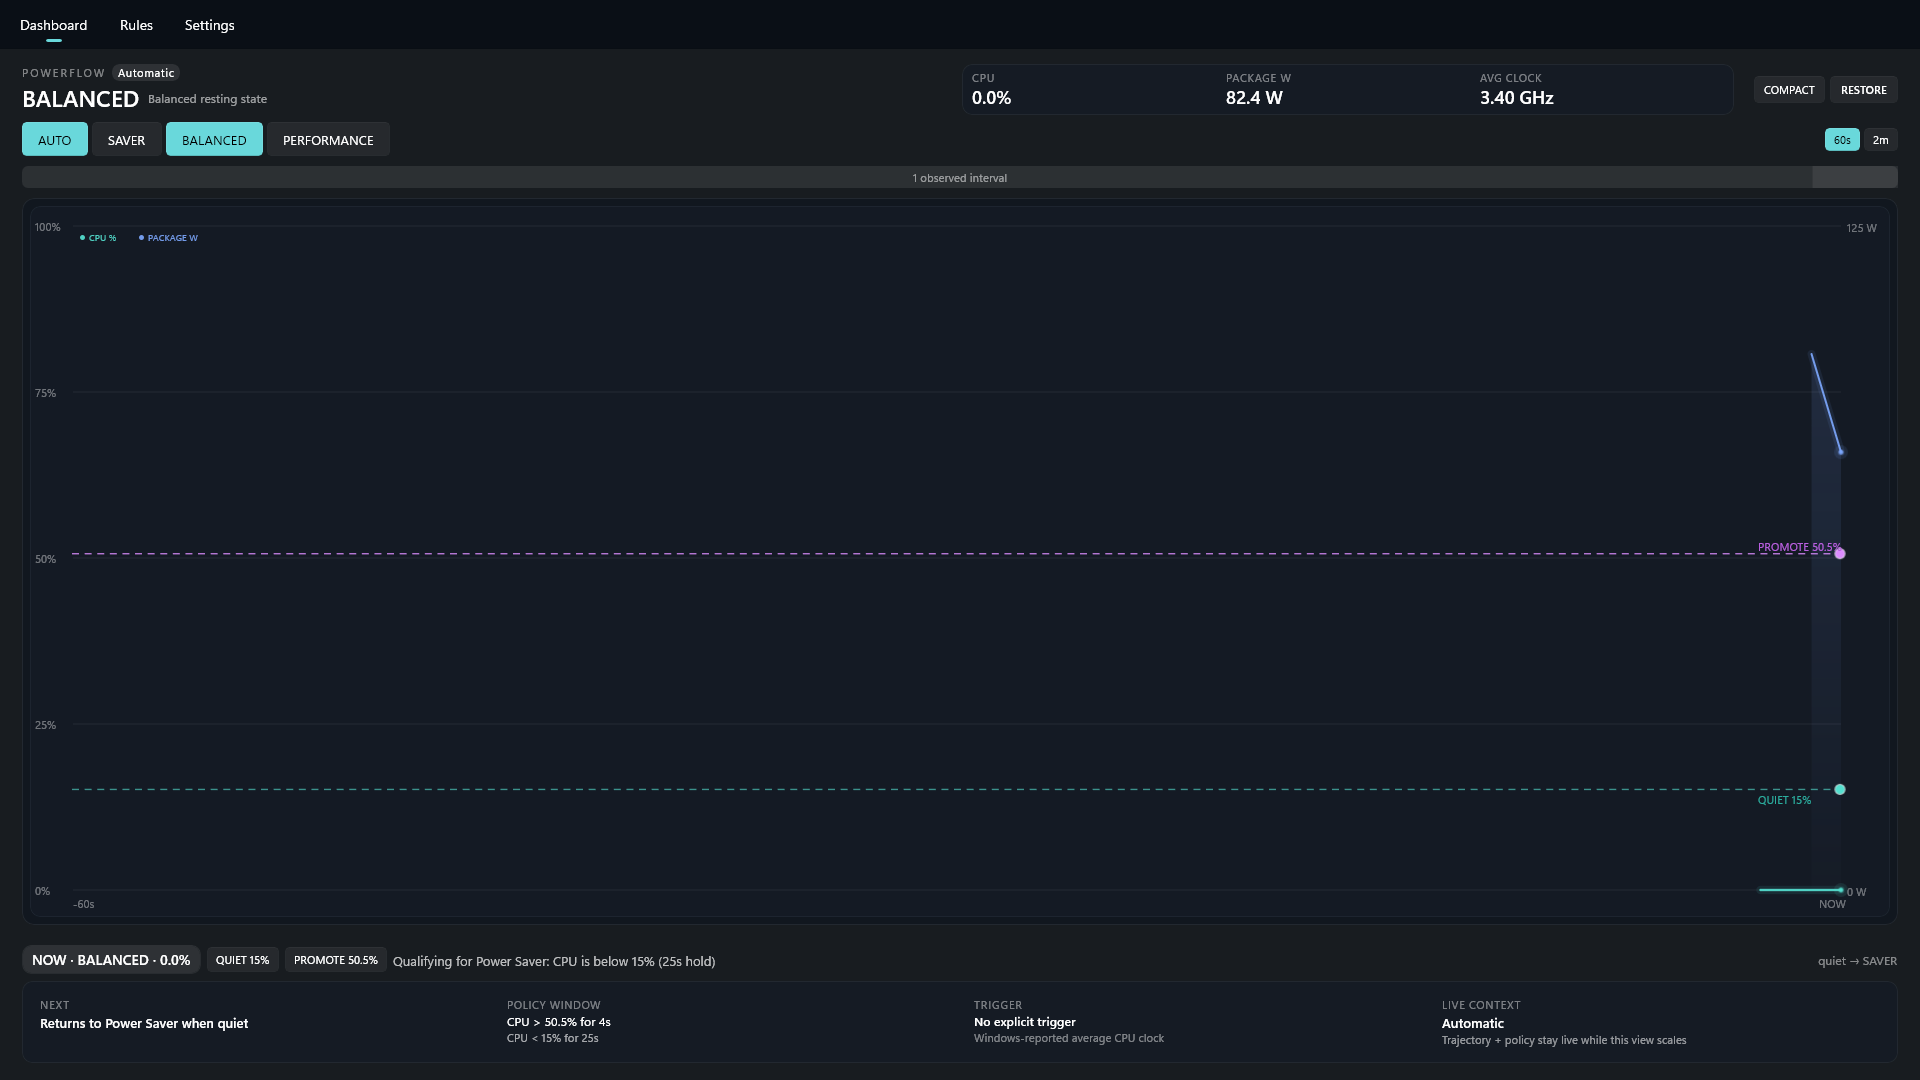
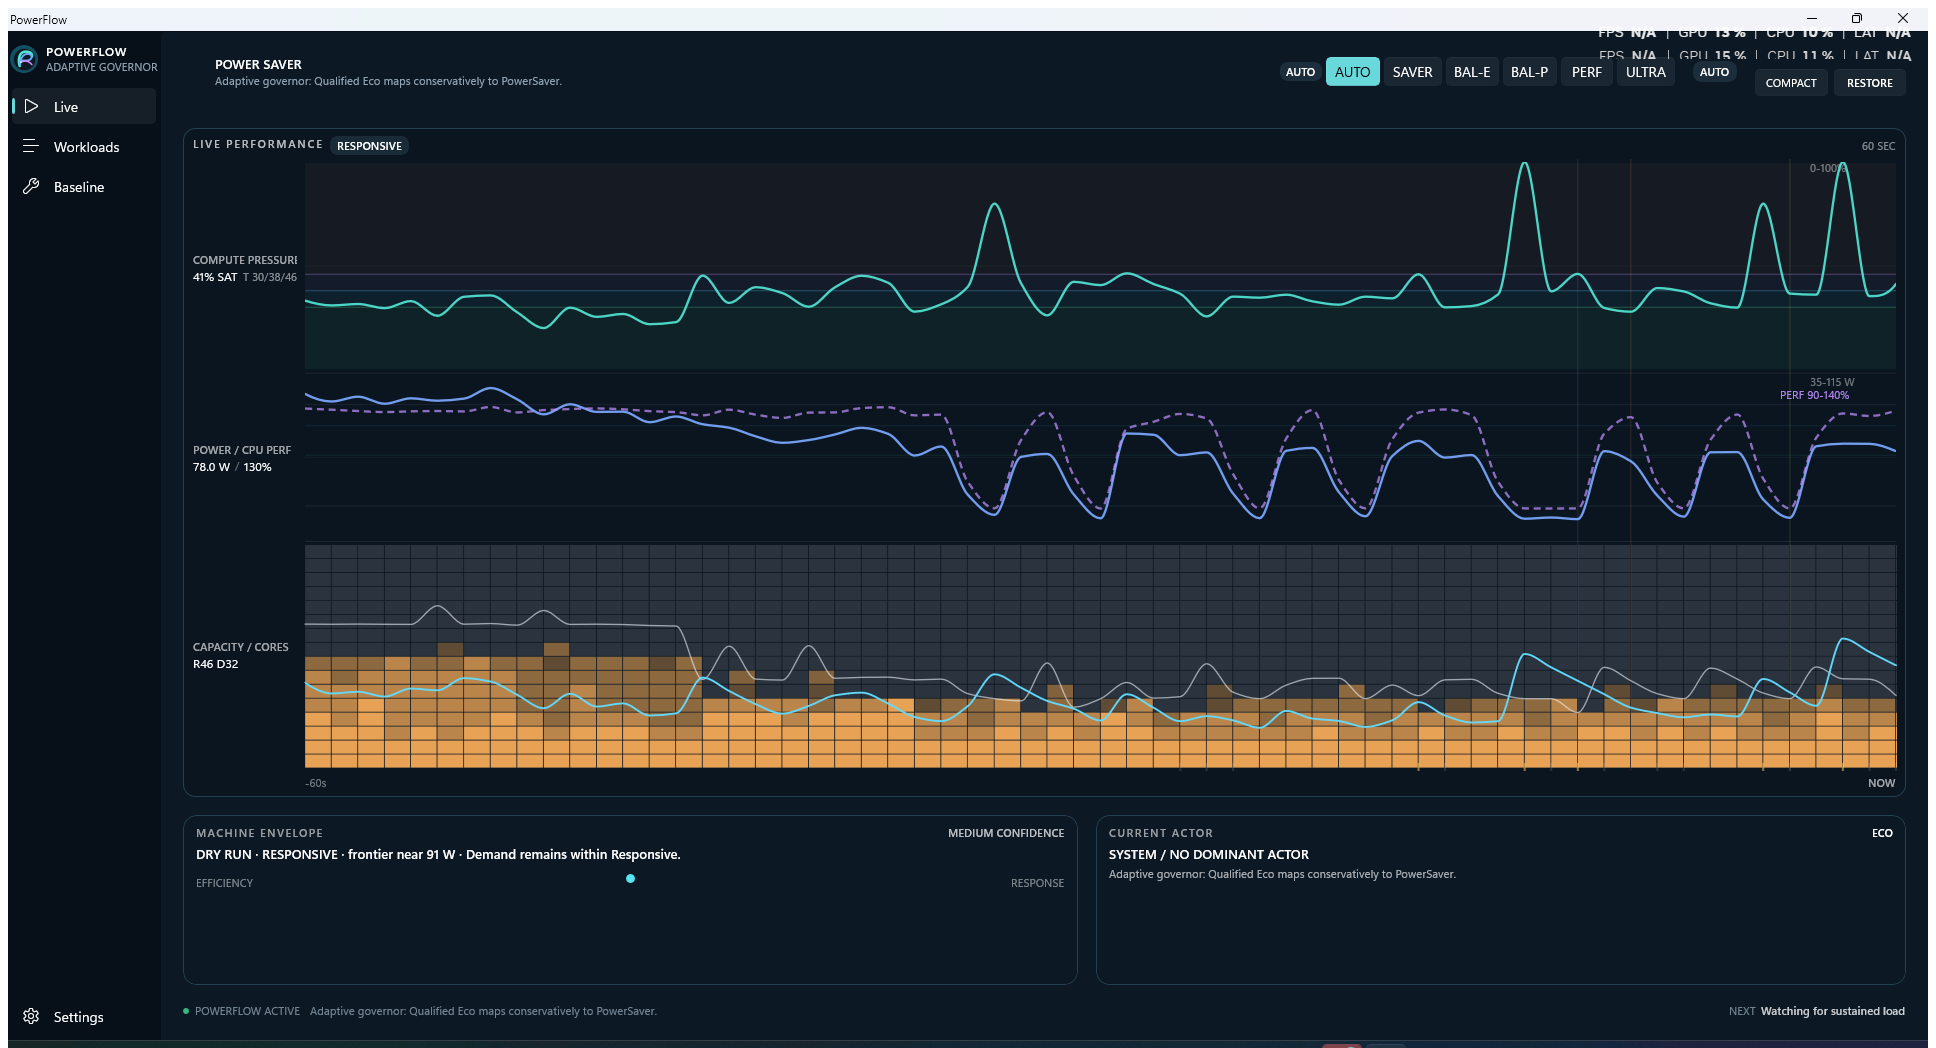
Refresh canonical PowerFlow Live screenshot

diff --git a/docs/acceptance/reference-host-acceptance-2026-09-11.md b/docs/acceptance/reference-host-acceptance-2026-09-11.md
@@ -53,3 +53,11 @@ After the qualification run, the Release app launched as a single healthy PowerF
 ## Scope
 
 This record proves the 2026-09-11 behavior and restoration gates. Older UI screenshots and earlier acceptance runs are retained under `docs/history` and must not be treated as the current product contract.
+
+## Current Live UI capture
+
+- Relaunched the qualified Release build on reference-host with --fullscreen on September 11, 2026.
+- Confirmed the visible PowerFlow window and allowed more than 60 seconds of live telemetry to accumulate before capture, matching the Live timeline's 60-second window.
+- Refreshed docs/assets/powerflow-fullscreen.png at 1936x1048 from the populated Live view.
+- Screenshot SHA-256: 487f1db15ee3319d5a4d85285d68084b669ba6597ccf612ffe0f50c70835838e.
+- PowerFlow remained responsive after capture; no launch-only frame was used.

diff --git a/README.md b/README.md
@@ -6,6 +6,12 @@ PowerFlow watches the machine, explains what it is doing, and chooses the least-
 
 PowerFlow does not expose experimental model editors, advisory-only service policy, raw Windows power-plan mapping, or a second competing Auto controller.
 
+## Current UI
+
+![PowerFlow Live dashboard with a fully populated 60-second telemetry graph](docs/assets/powerflow-fullscreen.png)
+
+This is the current qualified full-screen **Live** view, captured after the complete 60-second telemetry window had populated. The repository keeps this as the single canonical product screenshot so visual documentation does not drift behind the running app.
+
 ## Product model
 
 PowerFlow has two kinds of authority:
